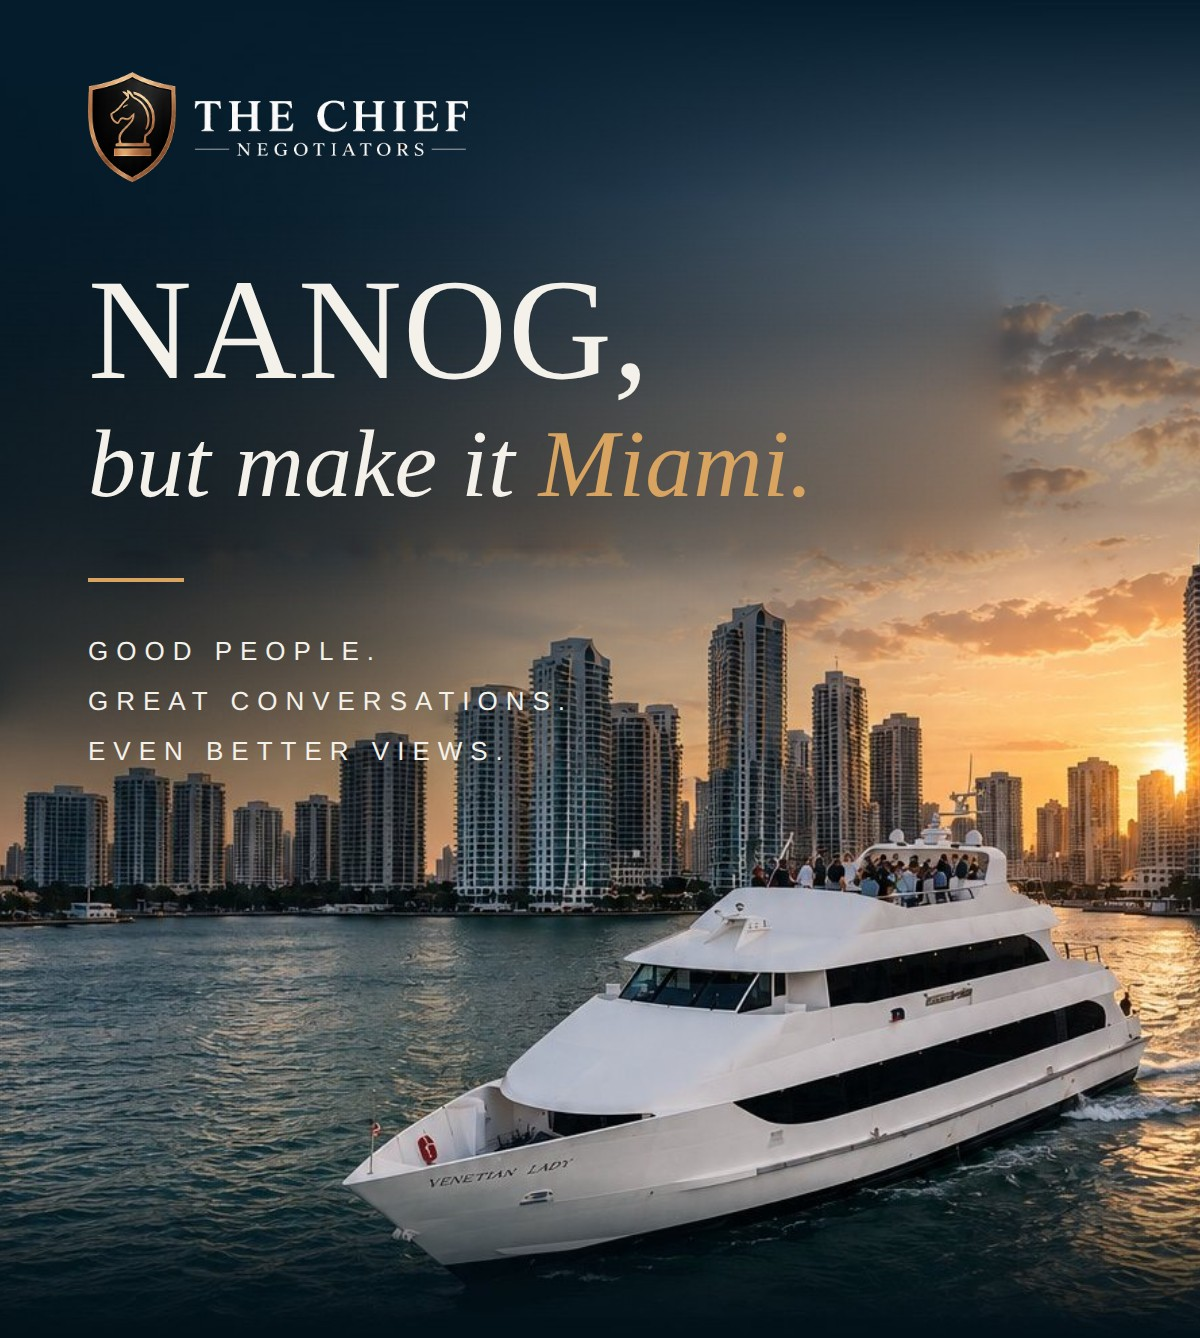
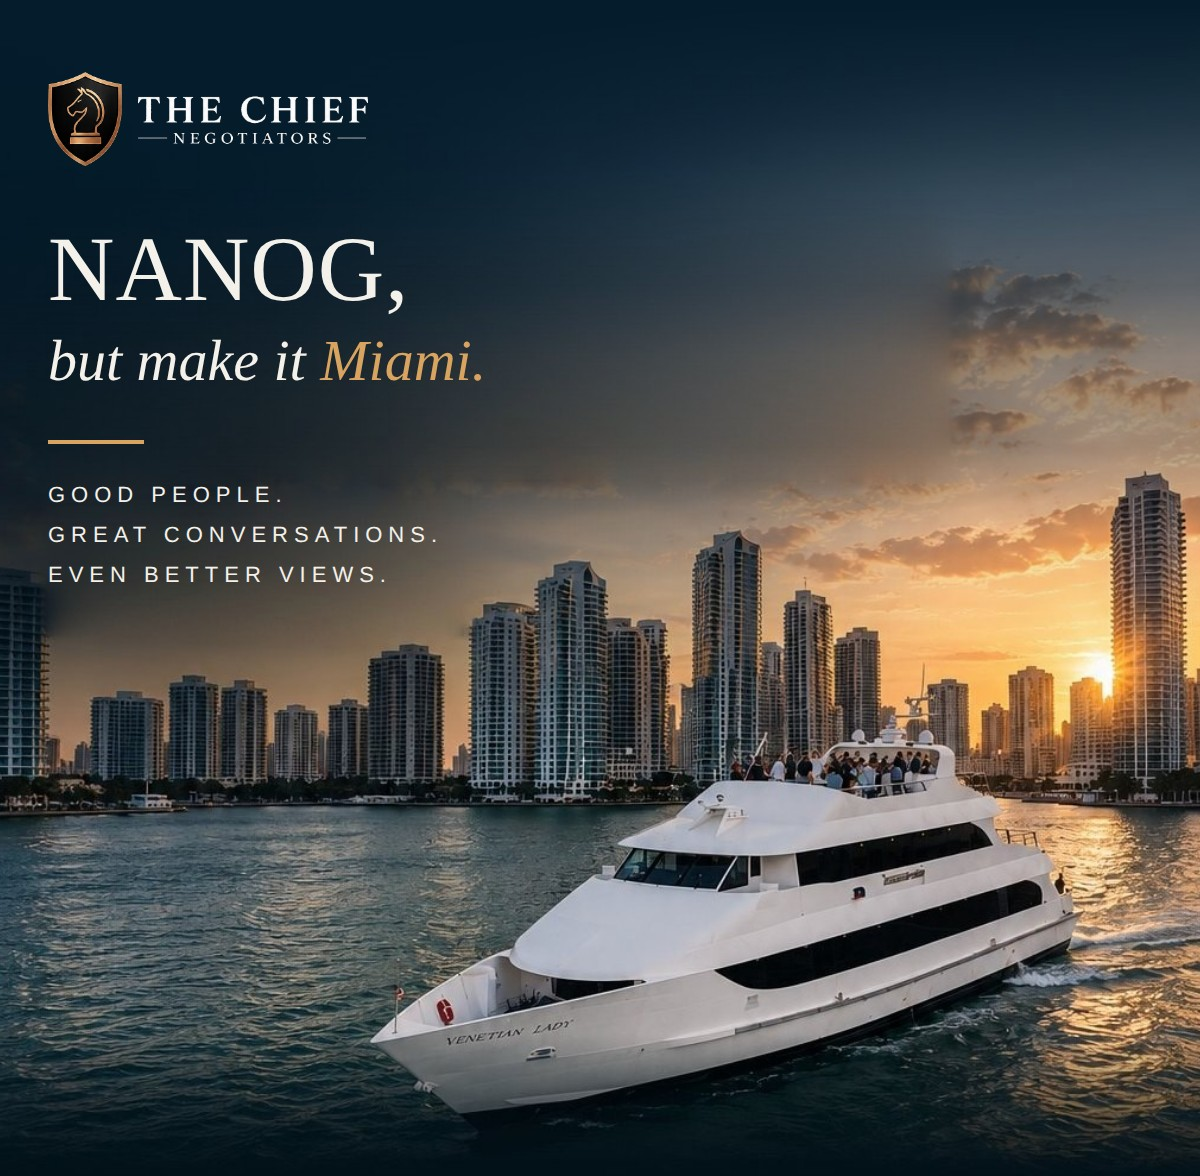
Rebake hero from cleaned image; refined serif CRM invite cache
Claude-Session: https://claude.ai/code/session_01CFfj54dg6tyejLSayjyEJD

diff --git a/assets/email/_founding-invite-cache.html b/assets/email/_founding-invite-cache.html
@@ -6,14 +6,81 @@
 <meta name="color-scheme" content="dark">
 <meta name="supported-color-schemes" content="dark">
 <title>The Chief Negotiators — Yacht Party</title>
-<style>@import url('https://fonts.googleapis.com/css2?family=Bodoni+Moda:ital,opsz,wght@0,6..96,400;0,6..96,500;1,6..96,400;1,6..96,500&display=swap');@keyframes evRise{from{opacity:0;transform:translateY(14px)}to{opacity:1;transform:none}}@keyframes evFade{from{opacity:0}to{opacity:1}}@keyframes evRule{from{width:0}to{width:48px}}@keyframes evGlow{0%,100%{box-shadow:0 0 0 0 rgba(0,0,0,0)}50%{box-shadow:0 0 24px 2px currentColor}}.ev-r1{animation:evRise .9s ease-out .2s both}.ev-r2{animation:evRise .9s ease-out .5s both}.ev-r3{animation:evFade 1s ease-out 1.1s both}.ev-rule{animation:evRule .8s ease-out .9s both}.ev-r4{animation:evRise .8s ease-out 1.4s both}.ev-r5{animation:evRise .8s ease-out 1.6s both}.ev-cta{animation:evFade .8s ease-out 1.9s both,evGlow 3s ease-in-out 3s infinite}@media (prefers-reduced-motion:reduce){.ev-r1,.ev-r2,.ev-r3,.ev-r4,.ev-r5,.ev-rule,.ev-hero,.ev-cta{animation:none!important}}@media (max-width:620px){.ev-r1,.ev-r2,.ev-r3,.ev-r4,.ev-r5,.ev-rule,.ev-hero,.ev-cta{animation:none!important}.ev-px{padding-left:24px!important;padding-right:24px!important}.ev-sky{padding-bottom:290px!important;background-size:cover!important;background-position:68% bottom!important}.ev-invited div{font-size:11px!important;letter-spacing:4px!important}.ev-logo{width:160px!important}.ev-gap{height:28px!important;line-height:28px!important}.ev-tag div{font-size:11px!important;line-height:20px!important;letter-spacing:3px!important}.ev-sky .ev-rule{margin:20px 0 16px!important}.ev-h1{font-size:46px!important;line-height:48px!important}.ev-h2{font-size:29px!important;line-height:37px!important}.ev-title{font-size:26px!important;line-height:33px!important}.ev-body{font-size:15px!important;line-height:24px!important}.ev-col{display:inline-block!important;width:50%!important;border-left:0!important;padding:14px 6px!important;box-sizing:border-box}.ev-cta a{padding:17px 48px!important}}
-body{margin:0;padding:0;background-color:#021118;}
-/* Kill all entrance/glow animations — email should be static. This removes the
-   pulsing gold box-shadow "blurry square" around the RSVP button and the fade-ins. */
-.ev-r1,.ev-r2,.ev-r3,.ev-r4,.ev-r5,.ev-rule,.ev-hero,.ev-cta,.ev-cta a{animation:none!important;opacity:1!important;transform:none!important;box-shadow:none!important;}
+<style>
+  body{margin:0;padding:0;background-color:#021118;}
+  /* Type system
+     Display  : Didone serif  (baked into hero; live for headings/sign-off)
+     Label    : letter-spaced sans caps  (eyebrows, city, schedule, highlight)
+     Body     : Georgia serif, editorial  (invitation copy + note) */
+  .serif{font-family:Georgia,'Times New Roman',Times,serif;}
+  .disp{font-family:Didot,'Didot LT STD','Bodoni 72','Bodoni Moda','Bodoni MT',Georgia,'Times New Roman',serif;}
+  .sans{font-family:'Helvetica Neue',Helvetica,Arial,sans-serif;}
+  @media (max-width:620px){
+    .px{padding-left:26px!important;padding-right:26px!important}
+    .t-title{font-size:27px!important;line-height:34px!important}
+    .t-body{font-size:16px!important;line-height:27px!important}
+    .t-venue{font-size:29px!important;line-height:35px!important}
+  }
 </style>
 </head>
 <body style="margin:0;padding:0;background-color:#021118;">
-<div style="display:none;max-height:0;overflow:hidden;opacity:0;mso-hide:all;">Sunday, Oct 18 · 7–10:30 PM · The Venetian Lady, Miami. By invitation only; space is limited.</div>
-<table role="presentation" width="100%" cellpadding="0" cellspacing="0" border="0" bgcolor="#021118" style="background-color:#021118;"><tr><td align="center" style="padding:0;"><table role="presentation" width="100%" cellpadding="0" cellspacing="0" border="0" bgcolor="#021118" style="max-width:600px;background-color:#021118;"><tr><td class="ev-px ev-sky" bgcolor="#041C2C" background="https://cncrm.thechiefnegotiators.com/assets/email/event-yacht-full.jpg?v=1018k" valign="top" style="padding:36px 44px 280px;background-color:#041C2C;background-image:url('https://cncrm.thechiefnegotiators.com/assets/email/event-yacht-full.jpg?v=1018k');background-size:cover;background-position:center bottom;background-repeat:no-repeat;"><!--[if gte mso 9]><v:rect xmlns:v="urn:schemas-microsoft-com:vml" fill="true" stroke="false" style="width:600px;height:710px;"><v:fill type="frame" src="https://cncrm.thechiefnegotiators.com/assets/email/event-yacht-full.jpg?v=1018k" color="#041C2C" /><v:textbox inset="0,0,0,0"><![endif]--><div><img class="ev-logo" src="https://cncrm.thechiefnegotiators.com/assets/email/logo-cn-reversed.png?v=1018k" width="190" alt="The Chief Negotiators" style="display:block;width:190px;max-width:100%;height:auto;border:0;outline:none;color:#F4F1EA;font-family:Georgia,'Times New Roman',Times,serif;font-size:16px;letter-spacing:3px;" /><div class="ev-gap" style="height:38px;line-height:38px;font-size:0;">&nbsp;</div><div class="ev-h1 ev-r1" style="font-family:Didot,'Didot LT STD','Bodoni 72','Bodoni Moda','Bodoni MT',Georgia,'Times New Roman',serif;font-weight:400;font-size:72px;line-height:72px;letter-spacing:.5px;color:#F4F1EA;">NANOG,</div><div class="ev-h2 ev-r2" style="font-family:Didot,'Didot LT STD','Bodoni 72','Bodoni Moda','Bodoni MT',Georgia,'Times New Roman',serif;font-weight:400;font-style:italic;font-size:48px;line-height:56px;color:#F4F1EA;padding-top:4px;">but make it <span style="color:#D9A45F;">Miami.</span></div><div class="ev-rule" style="width:48px;height:2px;line-height:2px;font-size:0;background-color:#D9A45F;margin:28px 0 22px;">&nbsp;</div><div class="ev-r3 ev-tag"><div style="font-family:'Helvetica Neue',Helvetica,Arial,sans-serif;font-size:13px;letter-spacing:4px;text-transform:uppercase;color:#F4F1EA;line-height:25px;">Good people.<br>Great conversations.<br>Even better views.</div></div></div><!--[if gte mso 9]></v:textbox></v:rect><![endif]--></td></tr><tr><td class="ev-px" align="center" style="padding:30px 44px 0;text-align:center;"><div class="ev-r4 ev-invited"><div style="font-family:'Helvetica Neue',Helvetica,Arial,sans-serif;font-size:13px;letter-spacing:6px;text-transform:uppercase;color:#F4F1EA;line-height:20px;">You're invited aboard</div></div><div class="ev-title ev-r4" style="font-family:Didot,'Didot LT STD','Bodoni 72','Bodoni Moda','Bodoni MT',Georgia,'Times New Roman',serif;font-weight:400;font-style:italic;font-size:36px;line-height:44px;color:#D9A45F;padding-top:12px;">The Chief Negotiators<br>Yacht Party</div><div class="ev-body ev-r5" style="font-family:'Helvetica Neue',Helvetica,Arial,sans-serif;font-size:16px;line-height:26px;color:#D5DCE0;padding-top:14px;">Six months ago I founded The Chief Negotiators — and to celebrate, I'm throwing a yacht party in Miami to kick off NANOG 98.<br><br>Come aboard The Venetian Lady for a sunset cruise through the skyline — an open bar, hors d'oeuvres and a DJ on deck, and the unofficial start to NANOG week. This one's for the whole community: new partners, old and new NANOG friends, and everyone who has helped us get off the ground.</div></td></tr><tr><td class="ev-px" align="center" style="padding:40px 44px 0;text-align:center;"><div style="font-family:Didot,'Didot LT STD','Bodoni 72','Bodoni Moda','Bodoni MT',Georgia,'Times New Roman',serif;font-weight:400;font-size:34px;line-height:40px;color:#F4F1EA;">The Venetian Lady</div><div style="font-family:'Helvetica Neue',Helvetica,Arial,sans-serif;font-size:12px;letter-spacing:4px;text-transform:uppercase;color:#A9B4BA;line-height:18px;padding-top:8px;">Miami, Florida</div><div style="font-family:'Helvetica Neue',Helvetica,Arial,sans-serif;font-size:19px;line-height:26px;color:#F4F1EA;padding-top:18px;">Sunday, October 18, 2026</div><div style="font-family:'Helvetica Neue',Helvetica,Arial,sans-serif;font-size:14px;line-height:22px;color:#A9B4BA;padding-top:8px;">Boarding&nbsp;6:30&nbsp;pm <span style="color:#D9A45F;">&nbsp;&middot;&nbsp;</span> Cruising&nbsp;7:00–10:30&nbsp;pm</div><div style="font-family:'Helvetica Neue',Helvetica,Arial,sans-serif;font-size:12px;letter-spacing:4px;text-transform:uppercase;color:#D9A45F;line-height:18px;padding-top:18px;font-weight:bold;">Open bar all evening</div></td></tr><tr><td style="padding:34px 0 0;"><div style="height:1px;line-height:1px;font-size:0;background-color:#17323F;">&nbsp;</div></td></tr><tr><td align="center" style="padding:36px 24px 0;"><table role="presentation" cellpadding="0" cellspacing="0" border="0" style="border-collapse:separate;"><tr><td class="ev-cta" align="center" bgcolor="#D9A45F" style="background-color:#D9A45F;border-radius:2px;color:#D9A45F;"><a href="https://cncrm.thechiefnegotiators.com/rsvp.html?e=venetian-lady-2026-10-18&first={{first_name}}&last={{last_name}}&email={{email}}&company={{company}}" target="_blank" style="display:block;padding:18px 64px;font-family:'Helvetica Neue',Helvetica,Arial,sans-serif;font-size:14px;font-weight:bold;letter-spacing:5px;text-transform:uppercase;text-decoration:none;"><span style="color:#021118;">RSVP</span></a></td></tr></table></td></tr><tr><td align="center" style="padding:24px 24px 0;text-align:center;"><a href="https://nanog.org/events/nanog-98/register/" target="_blank" style="font-family:'Helvetica Neue',Helvetica,Arial,sans-serif;font-size:15px;letter-spacing:1px;text-decoration:none;"><span style="color:#D9A45F;border-bottom:1px solid #D9A45F;padding-bottom:4px;">Register for NANOG 98 &nbsp;&rarr;</span></a></td></tr><tr><td class="ev-px" align="center" style="padding:30px 52px 0;font-family:'Helvetica Neue',Helvetica,Arial,sans-serif;font-size:15px;line-height:25px;color:#A9B4BA;text-align:center;">Attending NANOG or not, you're welcome aboard — and if you can make the meeting, I'd love for you to register and join us for the week.</td></tr><tr><td class="ev-px" align="center" style="padding:36px 44px 44px;text-align:center;"><div style="font-family:Didot,'Didot LT STD','Bodoni 72','Bodoni Moda','Bodoni MT',Georgia,'Times New Roman',serif;font-weight:400;font-size:24px;line-height:30px;color:#F4F1EA;">See you on the water,</div><div style="font-family:Didot,'Didot LT STD','Bodoni 72','Bodoni Moda','Bodoni MT',Georgia,'Times New Roman',serif;font-weight:400;font-size:26px;line-height:32px;color:#F4F1EA;padding-top:10px;">Amanda Ferrer</div><div style="font-family:'Helvetica Neue',Helvetica,Arial,sans-serif;font-size:12px;letter-spacing:4px;text-transform:uppercase;color:#A9B4BA;line-height:18px;padding-top:10px;">Founder · The Chief Negotiators</div></td></tr></table><table role="presentation" width="100%" cellpadding="0" cellspacing="0" border="0" style="max-width:600px;"><tr><td align="center" style="padding:22px 20px 26px;font-family:'Helvetica Neue',Helvetica,Arial,sans-serif;font-size:11px;line-height:17px;color:#7C8A92;text-align:center;">The Chief Negotiators &middot; St. Petersburg, Florida<br>You're receiving this because we've worked together or corresponded. <a href="{{unsubscribe_url}}" style="color:#D9A45F;text-decoration:underline;">Unsubscribe</a></td></tr></table></td></tr></table>
+<div style="display:none;max-height:0;overflow:hidden;opacity:0;mso-hide:all;">Sunday, Oct 18 · Boarding 6:30 PM · The Venetian Lady, Miami. By invitation only.</div>
+<table role="presentation" width="100%" cellpadding="0" cellspacing="0" border="0" bgcolor="#021118" style="background-color:#021118;"><tr><td align="center" style="padding:0;">
+<table role="presentation" width="100%" cellpadding="0" cellspacing="0" border="0" bgcolor="#021118" style="max-width:600px;background-color:#021118;">
+
+  <!-- HERO (single flattened image: photo + lockup + headline + tagline) -->
+  <tr><td style="padding:0;font-size:0;line-height:0;">
+    <img src="https://cncrm.thechiefnegotiators.com/assets/email/event-hero-flat.jpg?v=1018m" width="600" alt="NANOG, but make it Miami — you're invited aboard The Chief Negotiators Yacht Party on The Venetian Lady in Miami" style="display:block;width:100%;max-width:600px;height:auto;border:0;outline:none;">
+  </td></tr>
+
+  <!-- INVITATION -->
+  <tr><td class="px" align="center" style="padding:44px 48px 0;text-align:center;">
+    <div class="sans" style="font-size:12px;letter-spacing:5px;text-transform:uppercase;color:#8FA6AE;line-height:20px;">You&rsquo;re invited aboard</div>
+    <div class="disp t-title" style="font-style:italic;font-size:34px;line-height:42px;color:#D9A45F;padding-top:14px;">The Chief Negotiators<br>Yacht Party</div>
+    <div class="serif t-body" style="font-size:17px;line-height:29px;color:#C7D0D6;padding-top:20px;">Six months ago I founded The Chief Negotiators &mdash; and to celebrate, I&rsquo;m throwing a yacht party in Miami to kick off NANOG&nbsp;98.</div>
+    <div class="serif t-body" style="font-size:17px;line-height:29px;color:#C7D0D6;padding-top:16px;">Come aboard <em>The Venetian Lady</em> for a sunset cruise through the skyline &mdash; an open bar, hors d&rsquo;oeuvres and a DJ on deck, and the unofficial start to NANOG week. This one&rsquo;s for the whole community: new partners, old and new NANOG friends, and everyone who has helped us get off the ground.</div>
+  </td></tr>
+
+  <!-- gold flourish -->
+  <tr><td align="center" style="padding:34px 0 0;"><div style="width:44px;height:1px;line-height:1px;font-size:0;background-color:#D9A45F;">&nbsp;</div></td></tr>
+
+  <!-- DETAILS -->
+  <tr><td class="px" align="center" style="padding:30px 48px 0;text-align:center;">
+    <div class="disp t-venue" style="font-size:34px;line-height:40px;color:#F4F1EA;">The Venetian Lady</div>
+    <div class="sans" style="font-size:12px;letter-spacing:4px;text-transform:uppercase;color:#8FA6AE;line-height:18px;padding-top:9px;">Miami, Florida</div>
+    <div class="serif" style="font-size:19px;line-height:26px;color:#F4F1EA;padding-top:20px;">Sunday, October 18, 2026</div>
+    <div class="sans" style="font-size:13px;letter-spacing:1px;line-height:22px;color:#9BA6AC;padding-top:9px;">Boarding&nbsp;6:30&nbsp;PM<span style="color:#D9A45F;">&nbsp;&nbsp;&middot;&nbsp;&nbsp;</span>Cruising&nbsp;7:00&ndash;10:30&nbsp;PM</div>
+    <div class="sans" style="font-size:12px;letter-spacing:4px;text-transform:uppercase;color:#D9A45F;line-height:18px;padding-top:18px;font-weight:bold;">Open bar all evening</div>
+  </td></tr>
+
+  <!-- divider -->
+  <tr><td style="padding:36px 48px 0;"><div style="height:1px;line-height:1px;font-size:0;background-color:#16303C;">&nbsp;</div></td></tr>
+
+  <!-- RSVP -->
+  <tr><td align="center" style="padding:38px 24px 0;">
+    <table role="presentation" cellpadding="0" cellspacing="0" border="0" style="border-collapse:separate;"><tr>
+      <td align="center" bgcolor="#D9A45F" style="background-color:#D9A45F;border-radius:2px;">
+        <a href="https://cncrm.thechiefnegotiators.com/rsvp.html?e=venetian-lady-2026-10-18&first={{first_name}}&last={{last_name}}&email={{email}}&company={{company}}" target="_blank" class="sans" style="display:block;padding:18px 66px;font-size:14px;font-weight:bold;letter-spacing:5px;text-transform:uppercase;text-decoration:none;color:#021118;">RSVP</a>
+      </td>
+    </tr></table>
+  </td></tr>
+
+  <!-- NANOG register -->
+  <tr><td align="center" style="padding:26px 24px 0;text-align:center;">
+    <a href="https://nanog.org/events/nanog-98/register/" target="_blank" class="sans" style="font-size:14px;letter-spacing:1px;text-decoration:none;"><span style="color:#D9A45F;border-bottom:1px solid #6B5427;padding-bottom:4px;">Register for NANOG&nbsp;98&nbsp;&nbsp;&rarr;</span></a>
+  </td></tr>
+  <tr><td class="px" align="center" style="padding:22px 56px 0;text-align:center;">
+    <div class="serif" style="font-style:italic;font-size:15px;line-height:25px;color:#8B969C;">Attending NANOG or not, you&rsquo;re welcome aboard &mdash; and if you can make the meeting, I&rsquo;d love for you to register and join us for the week.</div>
+  </td></tr>
+
+  <!-- SIGN-OFF -->
+  <tr><td class="px" align="center" style="padding:40px 48px 46px;text-align:center;">
+    <div class="disp" style="font-size:23px;line-height:30px;color:#F4F1EA;">See you on the water,</div>
+    <div class="disp" style="font-size:26px;line-height:32px;color:#F4F1EA;padding-top:8px;">Amanda Ferrer</div>
+    <div class="sans" style="font-size:11px;letter-spacing:4px;text-transform:uppercase;color:#7E8990;line-height:18px;padding-top:12px;">Founder&nbsp;&middot;&nbsp;The Chief Negotiators</div>
+  </td></tr>
+
+</table>
+<table role="presentation" width="100%" cellpadding="0" cellspacing="0" border="0" style="max-width:600px;"><tr><td align="center" class="sans" style="padding:22px 20px 30px;font-size:11px;line-height:17px;color:#63727A;text-align:center;">The Chief Negotiators&nbsp;&middot;&nbsp;St. Petersburg, Florida<br>You&rsquo;re receiving this because we&rsquo;ve worked together or corresponded. <a href="{{unsubscribe_url}}" style="color:#8B7338;text-decoration:underline;">Unsubscribe</a></td></tr></table>
+</td></tr></table>
 </body></html>
